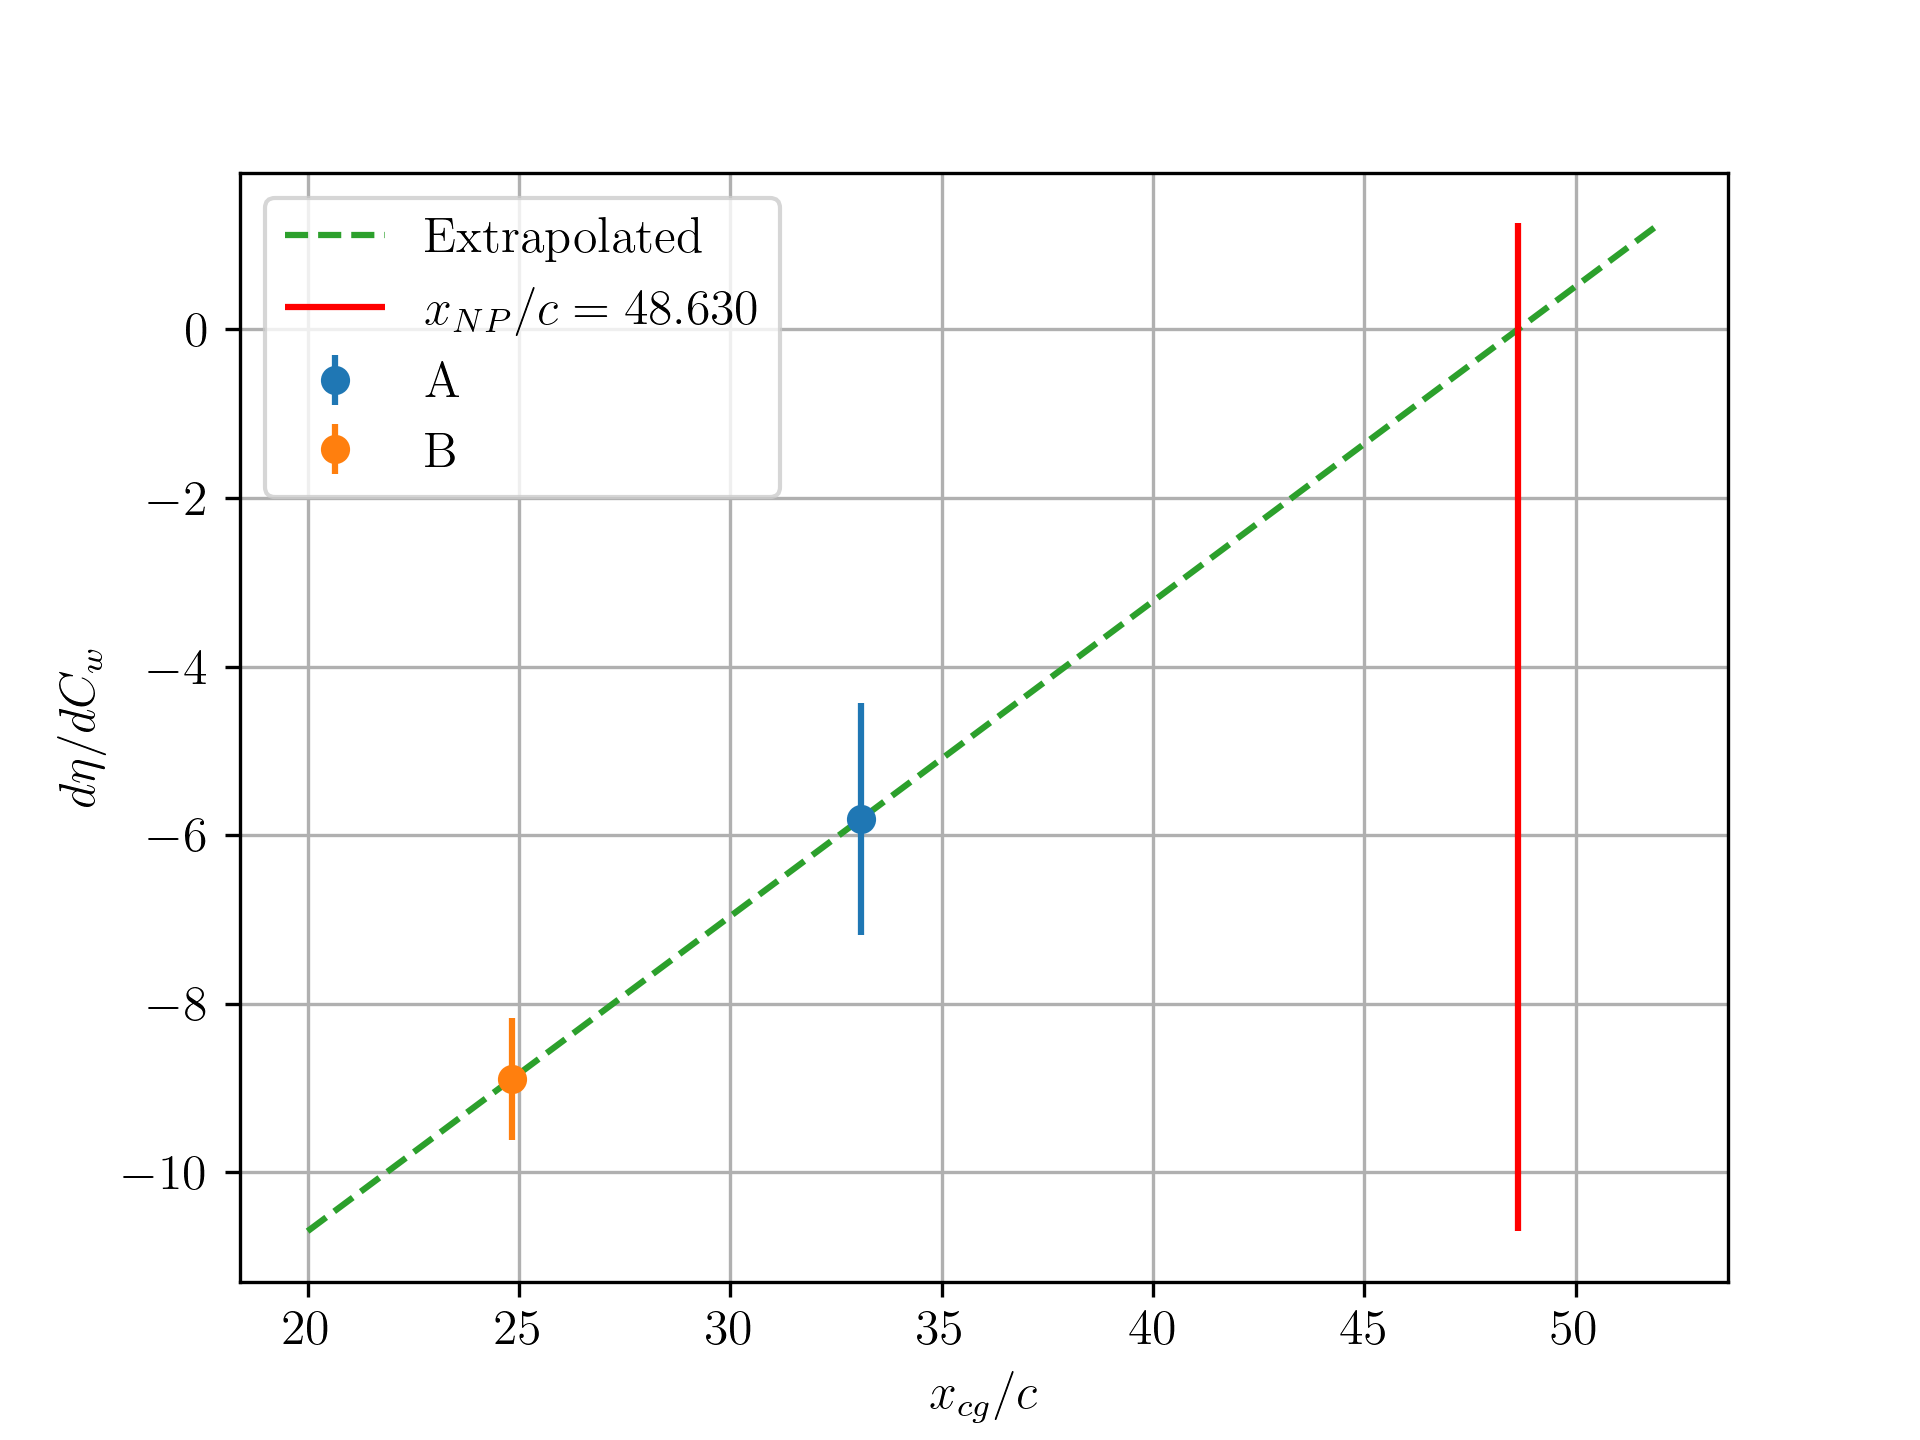
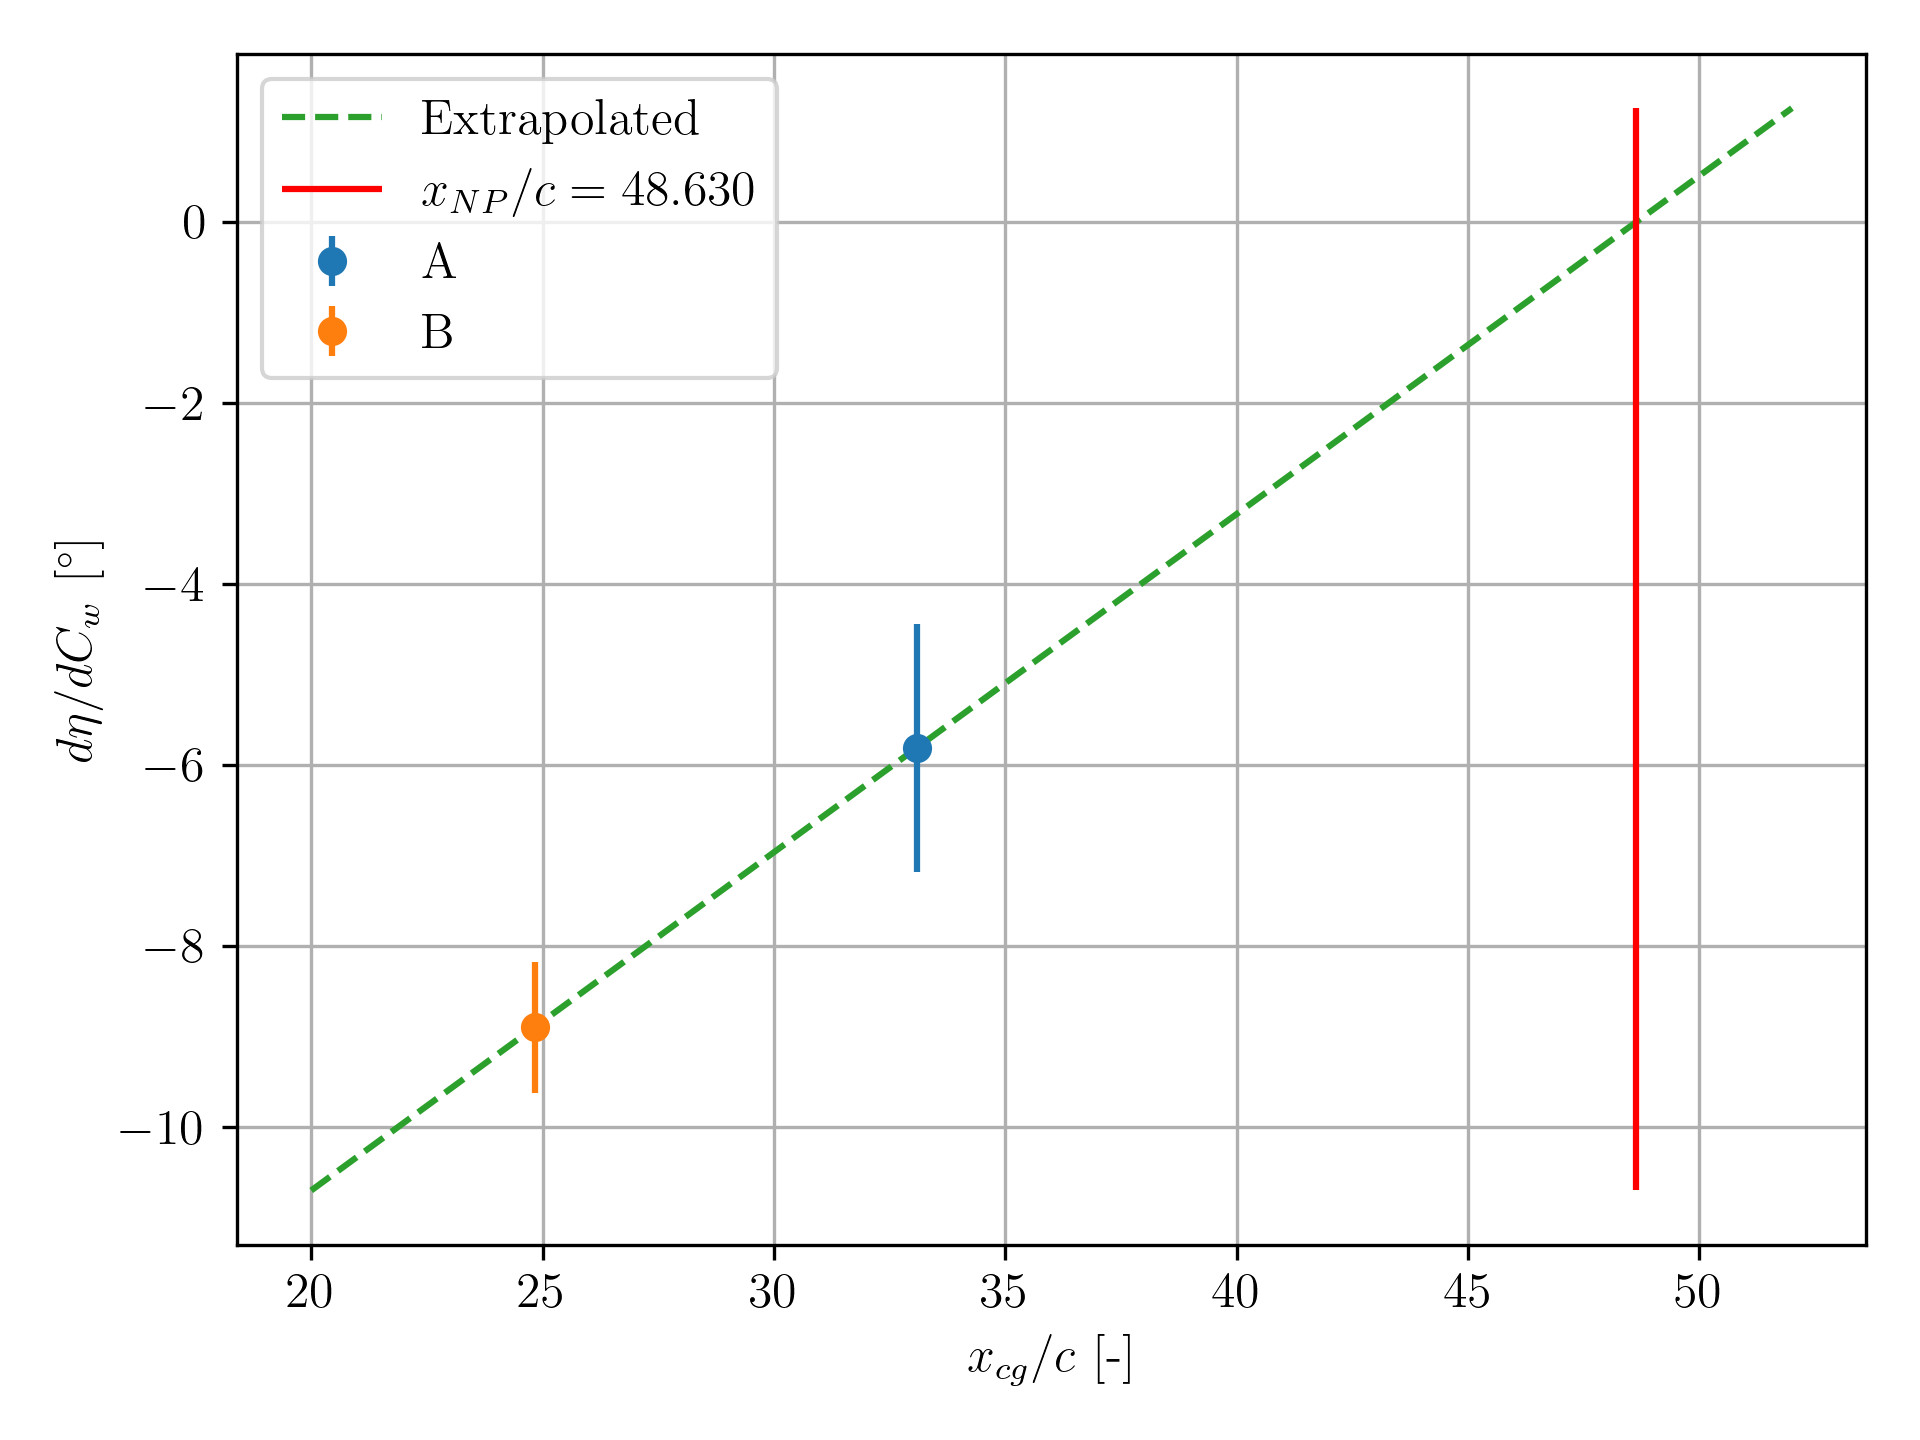
finished Longitudinal Static Stability

diff --git a/IIB/4A4/exercise1/e1.py b/IIB/4A4/exercise1/e1.py
@@ -81,7 +81,7 @@ def plot_Longitudinal_Static_Stability(ares, bres, aload, bload, afuel, bfuel):
     ax.plot(aCw[asrt], aelev[asrt], label='A')
     ax.plot(bCw[bsrt], belev[bsrt], label='B')
 
-    ax.set_xlabel('$C_w$')
+    ax.set_xlabel('$C_w$ [-]')
     ax.set_ylabel('$\eta$ [$^\circ$]')
     ax.legend()
 
@@ -109,13 +109,56 @@ def plot_Longitudinal_Static_Stability(ares, bres, aload, bload, afuel, bfuel):
     x0lab = '$x_{NP}/c = '+ f'{x0:.3f}' +'$'
     ax.vlines(x0, y.max(), y.min(), label= x0lab, linestyle='-', color='r')
 
-    ax.set_xlabel('$x_{cg}/c$')
-    ax.set_ylabel('$d\eta/dC_w$')
+    ax.set_xlabel(r'$x_{cg}/c$ [-]')
+    ax.set_ylabel(r'$d\eta/dC_w$ [$^\circ$]')
 
     ax.legend()
     ax.grid()
     fig.tight_layout()
     fig.savefig(wdir / 'Longitudinal_Static_Stability_2.png', dpi=300)
+
+    abeta = ares['Elev tab angle deg'].to_numpy()
+    bbeta = bres['Elev tab angle deg'].to_numpy()
+
+    fig, ax = plt.subplots()
+    ax.plot(aCw[asrt], abeta[asrt], label='A')
+    ax.plot(bCw[bsrt], bbeta[bsrt], label='B')
+
+    ax.set_xlabel(r'$C_w$ [-]')
+    ax.set_ylabel(r'$\beta$ [$^\circ$]')
+    ax.legend()
+
+    ax.grid()
+    fig.tight_layout()
+    fig.savefig(wdir / 'Longitudinal_Static_Stability_3.png', dpi=300)
+
+    A_dbeta_dCw = np.gradient(abeta[asrt], aCw[asrt])
+    B_dbeta_dCw = np.gradient(bbeta[bsrt], bCw[bsrt])
+
+    fig, ax = plt.subplots()
+
+    Aymean = np.mean(A_dbeta_dCw)
+    Bymean = np.mean(B_dbeta_dCw)
+
+    ax.errorbar(cgA, Aymean, yerr=np.std(A_dbeta_dCw), fmt='o', label='A')
+    ax.errorbar(cgB, Bymean, yerr=np.std(B_dbeta_dCw), fmt='o', label='B')
+
+    x = np.linspace(20, 60, 100)
+    y = Aymean + (x - cgA) * (Bymean - Aymean) / (cgB - cgA)
+    ax.plot(x, y, label='Extrapolated', linestyle='--')
+
+    # calc x at y = 0
+    x0 = cgA - Aymean * (cgB - cgA) / (Bymean - Aymean)
+    x0lab = '$x_{NP}/c = '+ f'{x0:.3f}' +'$'
+    ax.vlines(x0, y.max(), y.min(), label= x0lab, linestyle='-', color='r')
+
+    ax.set_xlabel(r'$x_{cg}/c$ [-]')
+    ax.set_ylabel(r'$d\beta/dC_w$ [$^\circ$]')
+
+    ax.legend()
+    ax.grid()
+    fig.tight_layout()
+    fig.savefig(wdir / 'Longitudinal_Static_Stability_4.png', dpi=300)
 
 
 A_Longitudinal_Static_Stability_df = measurement_df.iloc[5:10, 0:3]
